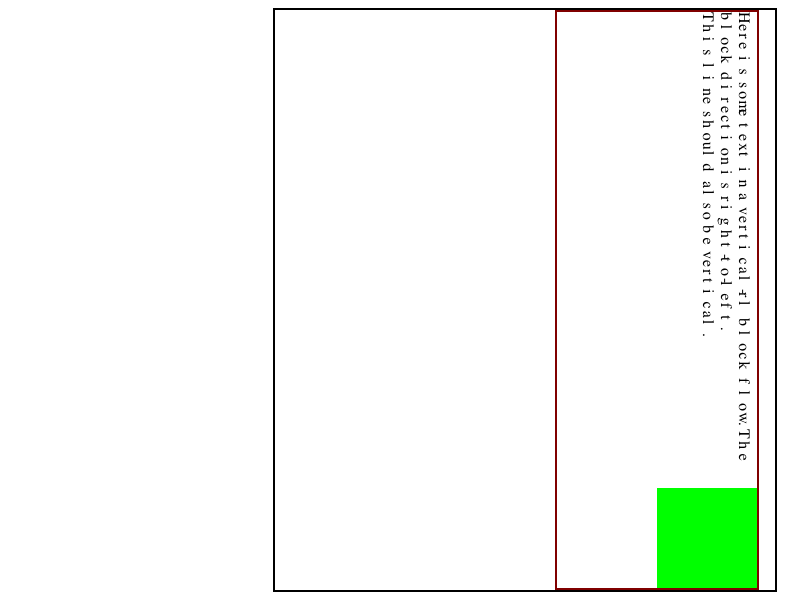
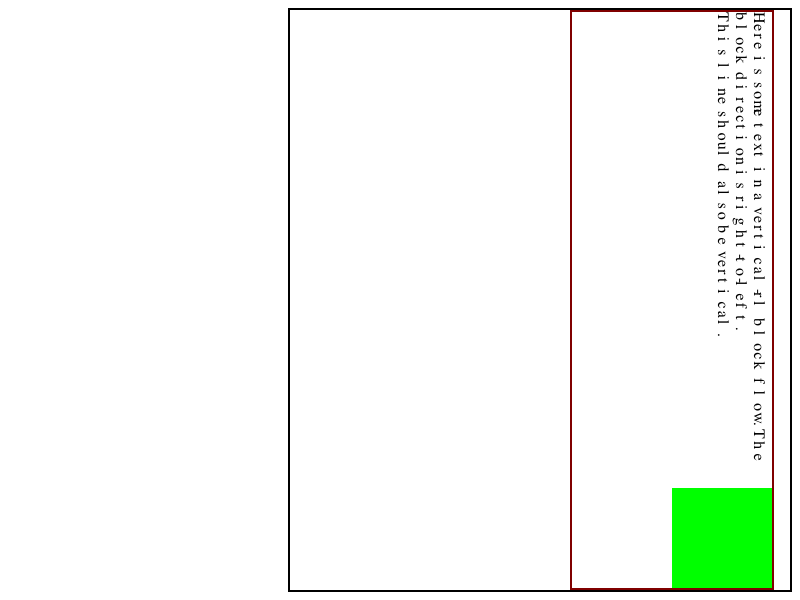
https://bugs.webkit.org/show_bug.cgi?id=48157
Reviewed by Sam Weinig.

Direction and writing-mode should propagate from the <body> to the <html> to the initial containing block.
Modify the existing code that propagates from the document element to also propagate from the body.
        
Fix the buggy code that was trying to dirty the body when the view changed size if it stretched to fill the
viewport.  The code didn't consider the root element, and it only worked with one axis.  I pulled it
out of calculateScrollbarModesForLayout, since it should never have been put there in the first place.
        
Added four new tests in fast/blockflow.

WebCore: 

* css/CSSStyleSelector.cpp:
(WebCore::CSSStyleSelector::initElement):
(WebCore::CSSStyleSelector::styleForDocument):
(WebCore::CSSStyleSelector::applyProperty):
* dom/Document.cpp:
(WebCore::Document::Document):
* dom/Document.h:
(WebCore::Document::directionSetOnDocumentElement):
(WebCore::Document::writingModeSetOnDocumentElement):
(WebCore::Document::setDirectionSetOnDocumentElement):
(WebCore::Document::setWritingModeSetOnDocumentElement):
* page/FrameView.cpp:
(WebCore::FrameView::calculateScrollbarModesForLayout):
(WebCore::FrameView::layout):
* rendering/RenderBox.cpp:
(WebCore::RenderBox::styleDidChange):
* rendering/RenderBox.h:
(WebCore::RenderBox::stretchesToViewport):

LayoutTests: 

* fast/blockflow/body-direction-propagation-blocked.html: Added.
* fast/blockflow/body-direction-propagation.html: Added.
[…]

diff --git a/fast/blockflow/body-writing-mode-propagation-blocked.html b/fast/blockflow/body-writing-mode-propagation-blocked.html
@@ -1,0 +1,3 @@
+<html style="-webkit-writing-mode:vertical-lr;">
+<body style="-webkit-writing-mode:vertical-rl; width:100px;border:2px solid black"></body>
+</html>

diff --git a/fast/blockflow/body-direction-propagation-blocked.html b/fast/blockflow/body-direction-propagation-blocked.html
@@ -1,0 +1,3 @@
+<html style="direction:ltr">
+<body style="direction:rtl; width:100px;border:2px solid black"></body>
+</html>

diff --git a/fast/blockflow/body-writing-mode-propagation.html b/fast/blockflow/body-writing-mode-propagation.html
@@ -1,0 +1,3 @@
+<html>
+<body style="-webkit-writing-mode:vertical-rl; width:100px;border:2px solid black"></body>
+</html>

diff --git a/fast/blockflow/body-direction-propagation.html b/fast/blockflow/body-direction-propagation.html
@@ -1,0 +1,3 @@
+<html>
+<body style="direction:rtl; width:100px;border:2px solid black"></body>
+</html>
